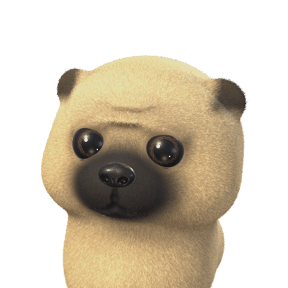
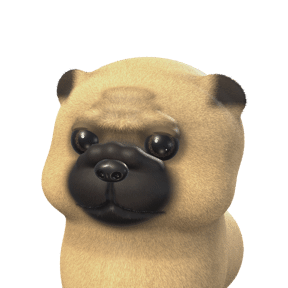
Neubau Mops und Panda
Mops mit Nasenfalte, weichen Stirnwuelsten, Lefzen, Rosenohren und dichtem Kurzfell; Panda mit vollen Backen, ovalen Augenflecken und Stimmung ueber die Kopfhaltung. Alle drei Ausdruecke. pruef-alles 9/9.

diff --git a/tools/figuren_rendern/Tiere.swift b/tools/figuren_rendern/Tiere.swift
@@ -597,51 +597,53 @@ func baer() -> (SCNNode, Float, V) {
 // ---------- Panda ----------
 
 func panda() -> (SCNNode, Float, V) {
-    let weiss = hex("#F1EEE6"), schwarz = hex("#211E1E")
+    // Runde 196, Neubau: Grosser Panda. Sehr breiter Kopf (Kaumuskeln), vorstehende weisse Schnauze mit grosser schwarzer
+    // Nase, grosse ovale Augenflecken schraeg nach aussen unten, darin oben innen ein KLEINES dunkles Auge (etwas groesser
+    // als echt, Entscheidung des Inhabers), runde schwarze Ohren, dickes wolliges, leicht cremiges Fell.
+    let weiss = hex("#EDE7DA"), schwarz = hex("#1D1A19")
     var formen: [Form] = [
-        Form(art: .ellipsoid(V(1.04, 0.86, 0.90)), mitte: V(0, 0.06, 0)),
-        Form(art: .ellipsoid(V(0.52, 0.40, 0.44)), mitte: V(-0.56, -0.24, 0.22), weich: 0.35),
-        Form(art: .ellipsoid(V(0.52, 0.40, 0.44)), mitte: V(0.56, -0.24, 0.22), weich: 0.35),
-        // Wie beim echten Panda: die weisse Schnauze steht deutlich vor.
-        Form(art: .ellipsoid(V(0.36, 0.28, 0.44)), mitte: V(0, -0.26, 0.86), weich: 0.25),
+        Form(art: .ellipsoid(V(1.02, 0.84, 0.88)), mitte: V(0, 0.06, 0)),
+        Form(art: .ellipsoid(V(0.58, 0.44, 0.46)), mitte: V(-0.56, -0.22, 0.20), weich: 0.35),
+        Form(art: .ellipsoid(V(0.58, 0.44, 0.46)), mitte: V(0.56, -0.22, 0.20), weich: 0.35),
+        Form(art: .ellipsoid(V(0.34, 0.26, 0.42)), mitte: V(0, -0.28, 0.84), weich: 0.25),
     ]
     for sx: Float in [-1, 1] {
-        formen.append(Form(art: .ellipsoid(V(0.28, 0.27, 0.18)), mitte: V(0.70 * sx, 0.74, -0.10), weich: 0.12))
+        formen.append(Form(art: .ellipsoid(V(0.27, 0.26, 0.17)), mitte: V(0.70 * sx, 0.74, -0.12), weich: 0.12))
     }
-    formen += lider(0.34, 0.16, 0.72, 0.13)
+    formen += lider(0.33, 0.20, 0.72, 0.10)
     let kopf = Koerper(formen: formen, farbe: { p, n in
         var c = farbeMitRauschen(weiss, p, 0.04)
-        // Ohren schwarz.
-        c = mische(c, schwarz, glatt(0.55, 0.68, p.y) * glatt(0.40, 0.52, abs(p.x)))
-        // Augenflecken: schraeg nach aussen unten auslaufende Tropfen.
+        c *= 0.95 + 0.07 * fbm(p * 5)                                    // leicht ungleichmaessiges, nicht reines Weiss
+        c = mische(c, schwarz, glatt(0.55, 0.66, p.y) * glatt(0.42, 0.52, abs(p.x)))     // Ohren
+        // Augenfleck: grosses Oval, schraeg nach aussen unten; das Auge sitzt oben innen darin.
         for sx: Float in [-1, 1] {
-            let q = p - V(0.36 * sx, 0.10, 0.70)
-            let gedreht = V(q.x * cosf(0.6) - q.y * sinf(0.6) * sx, q.x * sinf(0.6) * sx + q.y * cosf(0.6), q.z)
-            c = mische(c, schwarz, region(gedreht, V(0, -0.04, 0.06), V(0.24, 0.34, 0.6), 0.18))
+            let q = p - V(0.38 * sx, 0.06, 0.68)
+            let w0: Float = 0.55
+            let gedreht = V(q.x * cosf(w0) - q.y * sinf(w0) * sx, q.x * sinf(w0) * sx + q.y * cosf(w0), q.z)
+            c = mische(c, farbeMitRauschen(schwarz, p, 0.05), region(gedreht, V(0, -0.06, 0.04), V(0.22, 0.36, 0.6), 0.10))
         }
         return c
-    }, rauheit: 0.78, fell: 0.07)
-    // Panda: Brauenwulst ohne eigene Farbe (ueber dem Fleck ist der Panda weiss); dichte, wollige Buschel.
-    var (braue, braueM) = mitBrauen(kopf, x: 0.32, y: 0.35, laenge: 0.12, dicke: 0.06, winkel: 0.25)
-    braue.haar = haarKarte(kopf, FellKarte(kopf: 0.09, rumpf: 0.10, nase: V(0, -0.120, 1.240), schnauze: 0.5,
-        augen: augenStellen(kopf, x: 0.34, y: 0.16), augenR: 0.13, braue: 0.3), braue: braueM)
-    braue.fellArt = Fell(dichte: 70, ursprung: V(0, -0.120, 1.280), straehnen: 0.5)
-    // Panda: kleiner als beim Baer und hoeher angesetzt — ein schmales, zufriedenes Laecheln.
+    }, rauheit: 0.82, fell: 0.07)
+    var (braue, braueM) = mitBrauen(kopf, x: 0.32, y: 0.36, laenge: 0.12, dicke: 0.05, winkel: 0.20, staerke: 0.3, wulst: 0.5)
+    braue.haar = haarKarte(kopf, FellKarte(kopf: 0.10, rumpf: 0.12, nase: V(0, -0.120, 1.240), schnauze: 0.45,
+        augen: augenStellen(kopf, x: 0.33, y: 0.20), augenR: 0.11, braue: 0.2,
+        zonen: beide(V(0.56, -0.22, 0.20), V(0.50, 0.40, 0.40), 1.3)), braue: braueM)
+    braue.fellArt = Fell(dichte: 62, aufrecht: 0.52, ursprung: V(0, -0.120, 1.280), wurzel: 0.62, spitze: 1.10, straehnen: 0.55, streuung: 0.12)
     let maul = mitMaul(braue, Maul(kurven: [Kurve(punkte: [V(0, -0.210, 1.270), V(0, -0.290, 1.250), V(0, -0.350, 1.220)], spitzHinten: false)]
         + paar(Kurve(punkte: [V(0, -0.350, 1.220), V(0.07, -0.390, 1.190), V(0.14, -0.380, 1.140), V(0.20, -0.330, 1.070)], spitzVorn: false)),
         r: 0.030, farbe: schwarz, staerke: 0.85))
     let bau = Bau(brust: 1.45, tiefe: 1.1, hals: 0.52, bein: 0.27, beinAbstand: 0.33, ruecken: 0.85, rueckenHoehe: -0.90)
     let koerper = brustbild(maul, vierbeiner(bau), farbe: { p, _ in
-        // Das Pandamuster: weisser Koerper, schwarze Vorderbeine, und ein schwarzer Guertel ueber die
-        // Schultern, der beide Beine ueber den Ruecken verbindet.
-        let guertel = glatt(0.50, 0.24, abs(p.z + 0.40)) * glatt(-0.46, -0.80, p.y)   // Runde 137: weicher auslaufend
+        let guertel = glatt(0.50, 0.24, abs(p.z + 0.40)) * glatt(-0.46, -0.80, p.y)
         let beine = max(glatt(-0.74, -1.02, p.y) * glatt(0.04, 0.32, abs(p.x)), glatt(-1.20, -1.45, p.y))
         return mische(farbeMitRauschen(weiss, p, 0.04), farbeMitRauschen(schwarz, p, 0.05), max(guertel, beine))
     })
     let w = SCNNode(); w.addChildNode(brustKnoten(koerper))
-    tierNase(w, mitte: V(0, -0.120, 1.240), r: V(0.16, 0.10, 0.11), farbe: hex("#141212"))
-    augenEinsetzen(w, kopf, x: 0.34, y: 0.16, r: 0.15, iris: NSColor(calibratedRed: 0.38, green: 0.24, blue: 0.12, alpha: 1), pupille: 0.55, ausdruck: Ausdruck(oben: 0.26, unten: 0.13, schraeg: 0.20, funke: 1.5, wange: 0.40))
-    w.eulerAngles = SCNVector3(0.06, 0.30, -0.10)
+    tierNase(w, mitte: V(0, -0.120, 1.240), r: V(0.18, 0.11, 0.12), farbe: hex("#121010"))
+    augenEinsetzen(w, kopf, x: 0.33, y: 0.20, r: 0.10, tiefe: 0.36, iris: NSColor(calibratedRed: 0.30, green: 0.18, blue: 0.10, alpha: 1), pupille: 0.62, aussen: 0.30, ausdruck: Ausdruck(oben: 0.10, unten: 0.06, schraeg: 0.10, funke: 1.6, wange: 0))
+    // Schwarze Lider im schwarzen Fleck tragen keinen Ausdruck — wie beim Pinguin zeigt die Haltung die Stimmung.
+    let haltung: (Float, Float) = STIMMUNG == .muede ? (0.20, -0.10) : (STIMMUNG == .froh ? (-0.10, 0.14) : (0.06, -0.08))
+    w.eulerAngles = SCNVector3(haltung.0, 0.30, haltung.1)
     return (w, 7.3, V(0, 0.15, 0))
 }
 
@@ -1435,52 +1437,69 @@ func rotkehlchen() -> (SCNNode, Float, V) {
 // ---------- Runde 163: Mops und Siamkatze (Auftrag des Inhabers) ----------
 
 func mops() -> (SCNNode, Float, V) {
-    // Mops: runder, breiter Kopf, kaum Schnauze, schwarze Maske, Stirnfalten, kleine dunkle Knopfohren,
-    // grosse runde dunkle Augen; falbfarbenes, kurzes Fell.
-    let falb = hex("#D8B888"), maske = hex("#2A2320"), hell = hex("#E8D2AC")
-    var formen: [Form] = [
-        Form(art: .ellipsoid(V(0.96, 0.86, 0.86)), mitte: V(0, 0.10, -0.02)),
-        Form(art: .ellipsoid(V(0.48, 0.38, 0.42)), mitte: V(-0.46, -0.24, 0.28), weich: 0.30),
-        Form(art: .ellipsoid(V(0.48, 0.38, 0.42)), mitte: V(0.46, -0.24, 0.28), weich: 0.30),
-        // kurze, breite Schnauze
-        Form(art: .ellipsoid(V(0.42, 0.28, 0.26)), mitte: V(0, -0.24, 0.80), weich: 0.22),
-        // Stirnfalten: weiche Wuelste ueber der Nase
-        Form(art: .ellipsoid(V(0.20, 0.04, 0.08)), mitte: V(0, 0.36, 0.80), weich: 0.08),
-        Form(art: .ellipsoid(V(0.16, 0.035, 0.07)), mitte: V(0, 0.48, 0.74), weich: 0.08),
-    ]
-    for sx: Float in [-1, 1] {
-        // Knopfohr: nach vorn umgeklappt, klein und dunkel.
-        formen.append(Form(art: .ellipsoid(V(0.24, 0.20, 0.07)), mitte: V(0.74 * sx, 0.58, 0.12),
-                           drehung: simd_quatf(angle: -0.5 * sx, axis: V(0, 0, 1)) * simd_quatf(angle: 0.4 * sx, axis: V(0, 1, 0)), weich: 0.08))
+    // Runde 196, Neubau (Auftrag: „richtig fotorealistisch von a bis z"): ganz flaches Gesicht, dicke Nasenfalte im
+    // Bogen ueber der Nase, tiefe Stirnfalten, breiter Unterkiefer mit Lefzen, grosse runde leicht vorstehende Augen,
+    // schwarze Maske und Rosenohren, kurzes glaenzendes Falbfell. Falten sind Formen mit dunklerer Tiefe, keine Striche.
+    let falb = hex("#D3B07E"), maske = hex("#231C19"), hell = hex("#E6CFA3")
+    var falten: [Form] = []
+    // Nasenfalte: ein dicker Wulst im Bogen ueber der Nase.
+    let bogen: [V] = [V(-0.30, -0.04, 0.80), V(-0.16, 0.04, 0.90), V(0, 0.07, 0.93), V(0.16, 0.04, 0.90), V(0.30, -0.04, 0.80)]
+    for i in 0..<(bogen.count - 1) {
+        falten.append(Form(art: .rundkegel(bogen[i + 1] - bogen[i], 0.075, 0.075), mitte: bogen[i], weich: 0.06))
     }
-    formen += lider(0.34, 0.12, 0.70, 0.16)
+    // Stirnfalten: drei flache, leicht gebogene Wuelste; dazwischen eine senkrechte Rinne.
+    // Mitten knapp unter der Schaedelflaeche: die Wuelste wolben sich nur leicht vor, wie Haut, nicht wie Leisten.
+    for (y, b, z) in [(0.30 as Float, 0.30 as Float, 0.72 as Float), (0.42, 0.25, 0.67), (0.53, 0.19, 0.61)] {
+        falten.append(Form(art: .ellipsoid(V(b, 0.05, 0.06)), mitte: V(0, y, z), weich: 0.09))
+    }
+    var formen: [Form] = [
+        Form(art: .ellipsoid(V(0.92, 0.78, 0.80)), mitte: V(0, 0.12, -0.04)),
+        // breiter Unterkiefer und haengende Lefzen
+        Form(art: .ellipsoid(V(0.46, 0.34, 0.40)), mitte: V(-0.44, -0.30, 0.32), weich: 0.28),
+        Form(art: .ellipsoid(V(0.46, 0.34, 0.40)), mitte: V(0.44, -0.30, 0.32), weich: 0.28),
+        Form(art: .ellipsoid(V(0.42, 0.24, 0.22)), mitte: V(0, -0.24, 0.78), weich: 0.20),
+        Form(art: .ellipsoid(V(0.30, 0.14, 0.24)), mitte: V(0, -0.44, 0.62), weich: 0.18),
+        Form(art: .ellipsoid(V(0.03, 0.14, 0.05)), mitte: V(0, 0.42, 0.80), weich: 0.03, abziehen: true),
+    ] + falten
+    for sx: Float in [-1, 1] {
+        // Rosenohr: klein, nach vorn umgeklappt, schwarz.
+        formen.append(Form(art: .ellipsoid(V(0.25, 0.19, 0.06)), mitte: V(0.72 * sx, 0.56, 0.10),
+                           drehung: simd_quatf(angle: -0.55 * sx, axis: V(0, 0, 1)) * simd_quatf(angle: 0.45 * sx, axis: V(0, 1, 0)), weich: 0.08))
+    }
+    formen += lider(0.34, 0.14, 0.70, 0.12)
     let kopf = Koerper(formen: formen, farbe: { p, n in
         var c = farbeMitRauschen(falb, p, 0.07)
-        c = mische(c, hell, glatt(0.0, 0.5, p.y) * 0.25)
-        // schwarze Maske: Schnauze und um die Augen, nach oben weich auslaufend
-        let schnauze = region(p, V(0, -0.20, 0.98), V(0.56, 0.40, 0.44), 0.35)
-        let augen = max(region(p, V(-0.34, 0.12, 0.74), V(0.22, 0.20, 0.30), 0.4), region(p, V(0.34, 0.12, 0.74), V(0.22, 0.20, 0.30), 0.4))
-        c = mische(c, maske, max(schnauze, augen * 0.7))
-        // Falten dunkler in den Tiefen
-        c = mische(c, mische(falb, maske, 0.5), glatt(0.30, 0.52, p.y) * glatt(0.24, 0.0, abs(p.x)) * glatt(0.75, 0.9, n.z) * 0.35)
-        c = mische(c, maske, glatt(0.62, 0.74, abs(p.x)) * glatt(0.40, 0.55, p.y) * 0.9)     // Ohren
+        c = mische(c, hell, glatt(0.0, 0.5, p.y) * 0.20)
+        // Maske: Schnauze, Kinn, um die Augen, nach oben weich auslaufend
+        let schnauze = region(p, V(0, -0.20, 0.92), V(0.56, 0.42, 0.42), 0.18)
+        let augen = max(region(p, V(-0.34, 0.14, 0.72), V(0.22, 0.20, 0.30), 0.22), region(p, V(0.34, 0.14, 0.72), V(0.22, 0.20, 0.30), 0.22))
+        c = mische(c, maske, max(schnauze, augen * 0.75))
+        // Faltentiefen dunkler: knapp ausserhalb jedes Wulstes
+        let d = falten.map { $0.abstand(p) }.min() ?? 1
+        c = mische(c, mische(c, maske, 0.6), glatt(0.07, 0.025, d) * glatt(-0.01, 0.025, d) * 0.6)
+        c = mische(c, maske, glatt(0.60, 0.72, abs(p.x)) * glatt(0.40, 0.52, p.y) * 0.95)     // Ohren
         return c
-    }, rauheit: 0.74, fell: 0.06)
-    var (braue, braueM) = mitBrauen(kopf, x: 0.30, y: 0.32, laenge: 0.12, dicke: 0.05, winkel: 0.25, farbe: mische(falb, maske, 0.35), staerke: 0.7)
-    braue.haar = haarKarte(kopf, FellKarte(kopf: 0.044, rumpf: 0.06, nase: V(0, -0.10, 1.04), schnauze: 0.3,
-        augen: augenStellen(kopf, x: 0.34, y: 0.12), augenR: 0.18,
-        zonen: beide(V(0.46, -0.24, 0.28), V(0.40, 0.32, 0.36), 0.8)), braue: braueM)
-    braue.fellArt = Fell(dichte: 115, ursprung: V(0, -0.10, 1.10), wurzel: 0.58, spitze: 1.2, straehnen: 0.22, streuung: 0.17)
-    let maul = mitMaul(braue, Maul(kurven: [Kurve(punkte: [V(0, -0.20, 1.04), V(0, -0.30, 1.02), V(0, -0.36, 0.98)], spitzHinten: false)]
-        + paar(Kurve(punkte: [V(0, -0.36, 0.98), V(0.10, -0.42, 0.95), V(0.22, -0.40, 0.86)], spitzVorn: false)),
-        r: 0.030, farbe: hex("#140F0E"), staerke: 0.85))
-    let bau = Bau(brust: 1.25, tiefe: 1.05, hals: 0.55, bein: 0.18, beinAbstand: 0.30, ruecken: 0.65)
-    let koerper = brustbild(maul, vierbeiner(bau), farbe: { p, _ in farbeMitRauschen(falb, p, 0.07) })
+    }, rauheit: 0.60, fell: 0.05)
+    var (braue, braueM) = mitBrauen(kopf, x: 0.30, y: 0.34, laenge: 0.12, dicke: 0.045, winkel: 0.28, farbe: mische(falb, maske, 0.45), staerke: 0.55, wulst: 0.5)
+    braue.haar = haarKarte(kopf, FellKarte(kopf: 0.034, rumpf: 0.05, nase: V(0, -0.08, 0.98), schnauze: 0.3,
+        augen: augenStellen(kopf, x: 0.34, y: 0.14), augenR: 0.17,
+        zonen: beide(V(0.44, -0.30, 0.32), V(0.40, 0.32, 0.36), 0.8)), braue: braueM)
+    braue.fellArt = Fell(dichte: 150, dicke: 0.5, aufrecht: 0.30, neigung: 1.6, ursprung: V(0, -0.08, 1.02), wurzel: 0.60, spitze: 1.18, straehnen: 0.16, streuung: 0.15)
+    // Geschlossenes Maul mit tiefen Mundwinkeln unter den Lefzen.
+    let maul = mitMaul(braue, Maul(kurven: [Kurve(punkte: [V(0, -0.15, 0.99), V(0, -0.28, 0.98), V(0, -0.36, 0.94)], spitzHinten: false)]
+        + paar(Kurve(punkte: [V(0, -0.36, 0.94), V(0.12, -0.43, 0.91), V(0.26, -0.44, 0.82), V(0.36, -0.40, 0.68)], spitzVorn: false)),
+        r: 0.032, farbe: hex("#120D0C"), staerke: 0.9))
+    let bau = Bau(brust: 1.30, tiefe: 1.05, hals: 0.60, bein: 0.19, beinAbstand: 0.30, ruecken: 0.68)
+    let koerper = brustbild(maul, vierbeiner(bau), farbe: { p, _ in
+        // Kehlfalten: weiche dunklere Baender am Hals.
+        let kehle = glatt(0.55, 0.85, sinf(p.y * 14) * 0.5 + 0.5) * glatt(-0.40, -0.70, p.y) * glatt(-1.10, -0.85, p.y) * glatt(0.2, 0.5, p.z)
+        return mische(farbeMitRauschen(falb, p, 0.07), mische(falb, maske, 0.35), kehle * 0.5)
+    })
     let w = SCNNode(); w.addChildNode(brustKnoten(koerper))
-    tierNase(w, mitte: V(0, -0.10, 1.04), r: V(0.17, 0.11, 0.10), farbe: hex("#141010"))
-    augenEinsetzen(w, kopf, x: 0.34, y: 0.12, r: 0.20, iris: NSColor(calibratedRed: 0.20, green: 0.12, blue: 0.07, alpha: 1), pupille: 0.62, ausdruck: Ausdruck(oben: 0.06, unten: 0.10, schraeg: 0.12, funke: 1.7, wange: 0.2))
-    w.eulerAngles = SCNVector3(0.06, -0.24, -0.08)
-    return (w, 7.4, V(0, 0.15, 0))
+    tierNase(w, mitte: V(0, -0.08, 0.98), r: V(0.15, 0.10, 0.09), farbe: hex("#120E0E"))
+    augenEinsetzen(w, kopf, x: 0.34, y: 0.14, r: 0.17, tiefe: 0.36, iris: NSColor(calibratedRed: 0.18, green: 0.11, blue: 0.07, alpha: 1), pupille: 0.66, aussen: 0.30, ausdruck: Ausdruck(oben: 0.08, unten: 0.06, schraeg: 0.10, funke: 1.6, wange: 0))
+    w.eulerAngles = SCNVector3(0.05, -0.30, -0.05)
+    return (w, 7.4, V(0, 0.12, 0.05))
 }
 
 func siamkatze() -> (SCNNode, Float, V) {

diff --git a/docs/ios-huelle-journal.md b/docs/ios-huelle-journal.md
@@ -7,7 +7,7 @@ gehoert ebenfalls hierher — nicht stillschweigend uebersprungen. Neueste Eintr
 
 ---
 
-## ÜBERGABE an die naechste Sitzung (Stand 2026-10-30, nach Runde 195)
+## ÜBERGABE an die naechste Sitzung (Stand 2026-10-30, nach Runde 196)
 
 **Lies NUR diesen Block.** Er genuegt allein; die Eintraege darunter sind Begruendungen zum
 Nachschlagen. Dazu `tools/xcode-CLAUDE.md` (liegt als `ios/App/CLAUDE.md` neben der `.xcodeproj`
@@ -54,7 +54,8 @@ Regeln, die er gesetzt hat:
 
 | Runde | Commit | Inhalt |
 | --- | --- | --- |
-| 195 | (dieser) | Neubau Reh (Lauscher, Schnauze), Katze und Retriever erwachsen |
+| 196 | (dieser) | Neubau Mops und Panda, alle drei Ausdruecke |
+| 195 | `1136727` | Neubau Reh (Lauscher, Schnauze), Katze und Retriever erwachsen |
 | 194 | `5aed21b` | Katze, Siamkatze, Fuchs, Reh: kleinere Augen, feinere Tigerung, kraeftigere Siam-Maske, Reh-Fell |
 | 193 | `4f77b6a` | Neue Modelle: Wal laenger, Delfin mit Schnabel, Seeotter dunkler Koerper, kleinere Augen |
 | 192 | `4bd9578` | Neue Modelle: Rotkehlchen, Waldkauz (ohne Federohren), Hellroter Ara, Flamingo |
@@ -250,7 +251,7 @@ Regeln, die er gesetzt hat:
 
 ### Was offen ist
 
-**Kein laufender Auftrag.** Runden 165–195 sind erledigt und gepusht. Der naechste Auftrag kommt im Gespraech.
+**Kein laufender Auftrag.** Runden 165–196 sind erledigt und gepusht. Der naechste Auftrag kommt im Gespraech.
 
 *Wartet auf eine Entscheidung des Inhabers (aus Runde 179, mit Empfehlung vorgelegt — nicht ungefragt bauen):*
 - **Mindestversion iOS 16.4** statt 15.0 (Empfehlung). Grund: 62× `color-mix()` (erst ab 16.2) ohne Ersatz, Strahlenkranz
@@ -344,6 +345,8 @@ Startbild. Das allererste Startbild zeichnet iOS vor dem App-Start — **nicht n
   (ausser `#myCode`); Teilbild 1080×1350; keine Striche mit runden Enden auf Avatargroesse.
 
 ### Stand der Pruefungen
+
+**Nach Runde 196: ALLE 9 BESTANDEN**.
 
 **Nach Runde 195: ALLE 9 BESTANDEN**.
 
@@ -531,6 +534,18 @@ Bitte. Arbeitsbaum sauber bis auf `ios/App/App.xcworkspace/xcshareddata/` (absic
 Pruefstand: `pruef-alles` 9/9 — `tests` 10 Reihen, `pruef-app` 36, `pruef-nativ` 102, `fehlersuche` 28 ohne Fund.
 
 ---
+
+## Runde 196 — Neubau Mops und Panda
+
+**Auftrag:** „Mops und Panda richtig fotorealistisch von a bis z". Beide in `Tiere.swift` von Grund auf neu.
+**Mops:** ganz flaches Gesicht mit Nasenfalte im Bogen ueber der Nase, drei Stirnwuelste mit senkrechter Rinne, breiter Unterkiefer
+mit Lefzen, Rosenohren, Kehlfalten am Hals, kurzes dichtes Falbfell (Dichte 150). Erster Wurf: Die Stirnwuelste standen 0,13 vor
+der Schaedelflaeche und sahen aus wie gestapelte Scheiben — Mitten knapp unter die Flaeche gelegt, weicher verschmolzen, die
+Faltentiefe heller; die Maske hat jetzt eine klarere Kante (weich 0,18 statt 0,30). **Panda:** breiter runder Kopf mit vollen Backen,
+kurze Schnauze, ovale schraeg gestellte Augenflecken, langes dichtes Fell mit leichter Tonung im Weiss. Schwarze Lider auf schwarzem
+Fleck tragen keinen Ausdruck — die Stimmung kommt beim Panda aus der Kopfhaltung (muede gesenkt, froh gehoben), wie beim Pinguin.
+**Unsicher:** Die Nasenfalte des Mopses verschwindet auf Avatargroesse weitgehend in der Maske; der Panda-Ausdruck „muede" liest sich
+schwaecher als bei Tieren mit hellen Lidern. Alle drei Ausdruecke (60 Bilder bleiben 60).
 
 ## Runde 195 — Neubau Reh, Katze, Retriever
 
